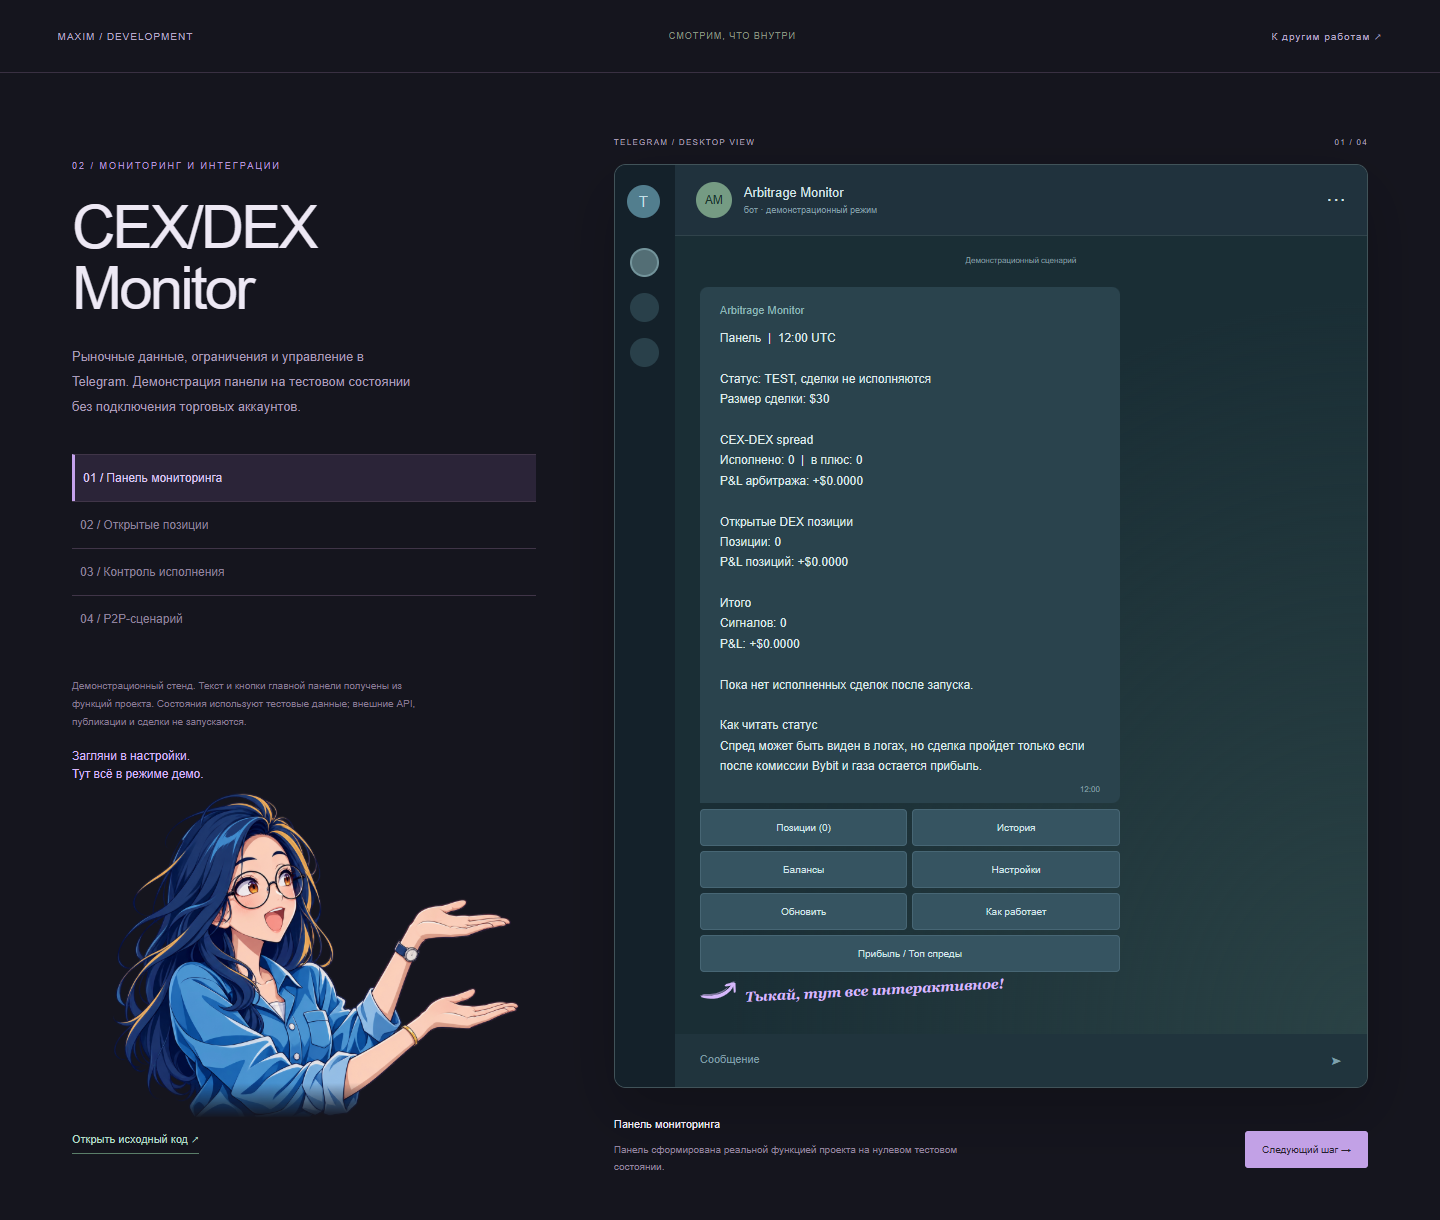
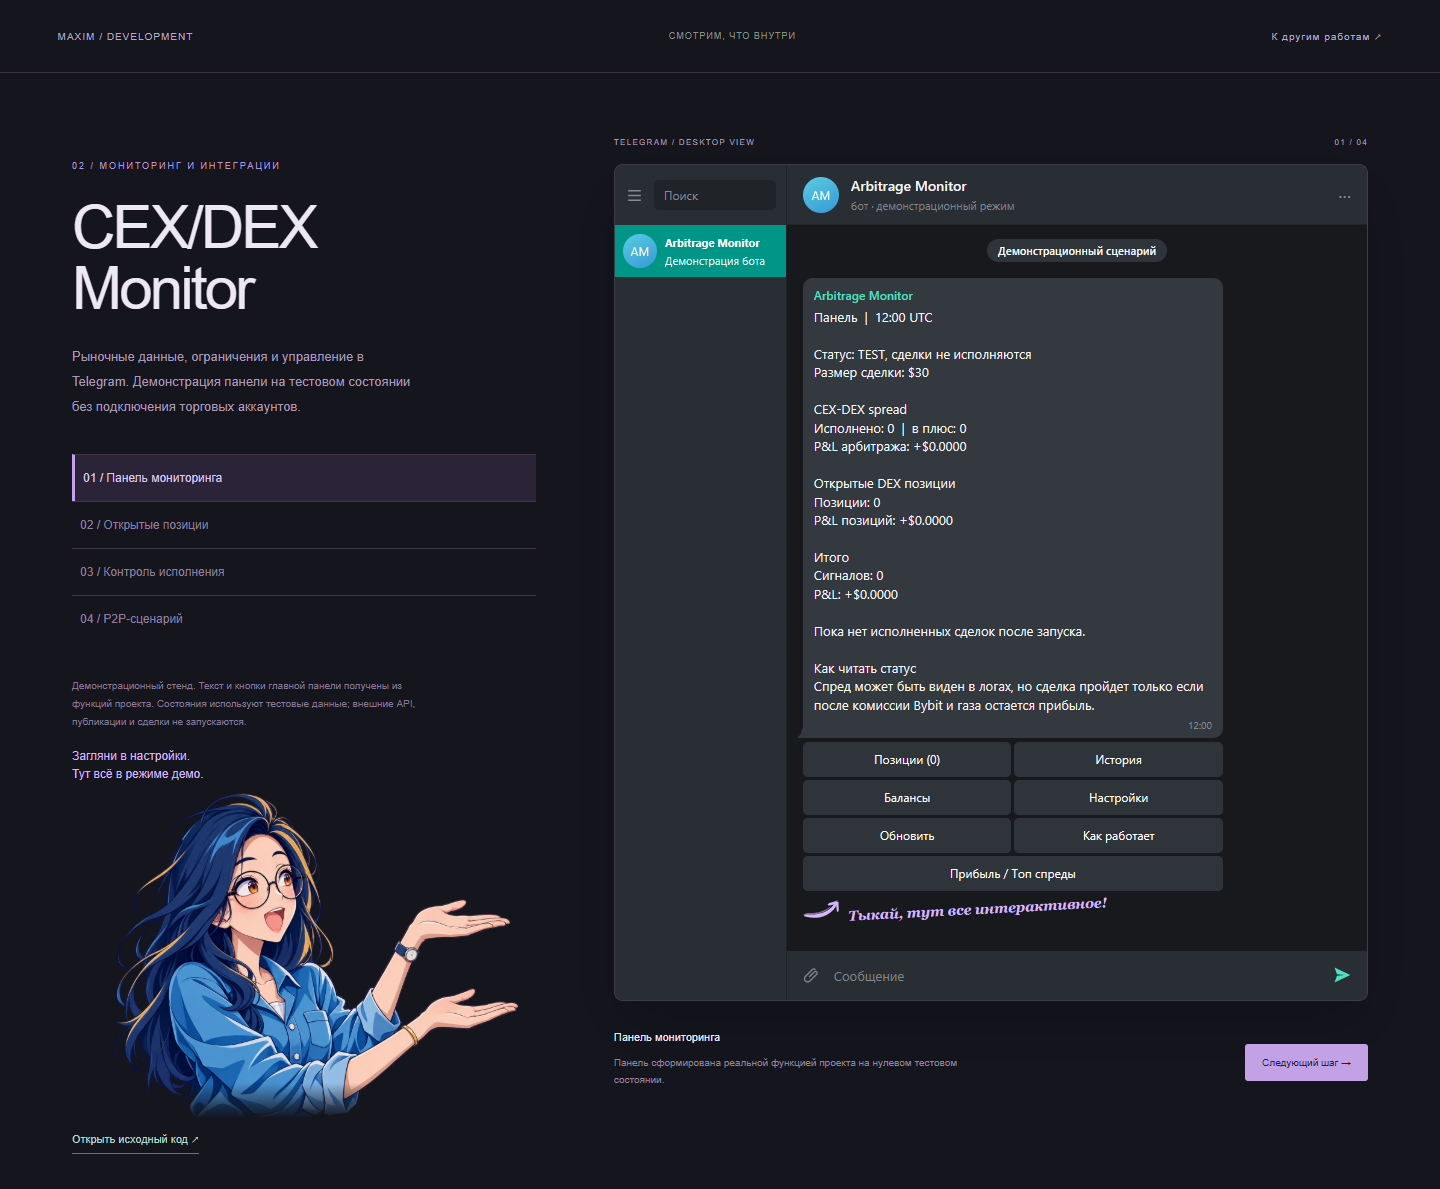
Match the Telegram Desktop Night palette

diff --git a/demo.js b/demo.js
@@ -1,7 +1,10 @@
 const kind=new URLSearchParams(location.search).get('project')==='arbitrage'?'arbitrage':'crypto';
 document.body.dataset.demo = kind;
 const projects={crypto:{number:'01 / АВТОМАТИЗАЦИЯ КОНТЕНТА',title:'CryptoNews\nPublisher',description:'От нескольких источников — к одной очереди публикаций. Редактор управляет всем процессом через Telegram.',avatar:'CN',chat:'CryptoNews Publisher',repo:'cryptonews-publisher',steps:[{name:'Панель редактора',description:'Канал, расписание и основные действия в одном сообщении.',snapshot:true},{name:'Подготовка поста',description:'Черновик из учебной ленты релизов. Можно запросить вторую редакцию, отклонить или подтвердить публикацию в демо.',text:'Предпросмотр публикации\n\nКак устроен путь новости до канала\n\nСистема собирает материалы из RSS и Telegram, подготавливает текст и передаёт его редактору. Перед публикацией можно проверить содержание, отклонить материал или запросить новую версию.\n\nЭто пример для демонстрации интерфейса, а не реальная новость.\n\n#Telegram #Автоматизация',buttons:[['Опубликовать','Отклонить'],['Перегенерировать','Без фото'],['Главная']]},{name:'Расписание',description:'Выбор часов публикации по московскому времени.',text:'Расписание\n\nВыберите часы публикации.\nЧасовой пояс: Москва (UTC+3).\n\nВ этом стенде настройки не сохраняются на сервере.',buttons:[['06:00','07:00','08:00','09:00'],['12:00','13:00','16:00','19:00'],['21:00','22:00','23:00'],['Назад']]},{name:'Очередь публикаций',description:'Редактор возвращается к неопубликованным материалам.',text:'Неопубликованные\n\nДемонстрационный материал ожидает проверки.\n\nРедактор может открыть предпросмотр, обновить текст или отклонить публикацию.',buttons:[['Открыть предпросмотр'],['Главная']]}]},arbitrage:{number:'02 / МОНИТОРИНГ И ИНТЕГРАЦИИ',title:'CEX/DEX\nMonitor',description:'Рыночные данные, ограничения и управление в Telegram. Демонстрация панели на тестовом состоянии без подключения торговых аккаунтов.',avatar:'AM',chat:'Arbitrage Monitor',repo:'cex-dex-arbitrage-monitor',steps:[{name:'Панель мониторинга',description:'Панель сформирована реальной функцией проекта на нулевом тестовом состоянии.',snapshot:true},{name:'Открытые позиции',description:'Пустое состояние: показываем отсутствие данных без выдуманной прибыли.',text:'Открытые DEX позиции\n\nОткрытых позиций нет.\n\nРежим демонстрации: торговые аккаунты и кошельки не подключены.',buttons:[['Обновить'],['Назад']]},{name:'Контроль исполнения',description:'Пример параметров из конфигурации проекта.',text:'Настройки стратегии\n\nРеальная торговля: выключена\nРазмер сделки: 30 USDT\nTake profit: 1.2%\nStop loss: 0.7%\nДопуск проскальзывания: 0.5%\nДневной лимит убытка: 10 USDT\nЛимит сделок: 50\n\nТестовые значения из конфигурации. Изменения на этом стенде не применяются.',buttons:[['Назад']]},{name:'P2P-сценарий',description:'Пояснение потока данных из сервисов проекта.',text:'P2P Triangle\n\nПроверка направлений между площадками с учётом:\n\nПлатёжного метода\nЛимитов объявления\nДоступной ликвидности\nКомиссий и запаса по издержкам\n\nДемонстрационный сценарий. Рыночные котировки не загружаются.',buttons:[['Главная']]}]}};
-const p=projects[kind];document.title=p.chat+' — демонстрация';for(const [id,value] of Object.entries({number:p.number,title:p.title,description:p.description,avatar:p.avatar,'chat-title':p.chat,sender:p.chat})){document.getElementById(id).textContent=value}document.getElementById('title').style.whiteSpace='pre-line';document.getElementById('source').href='https://github.com/Max0209-web/'+p.repo;let step=0;let snapshot=null;
+const p=projects[kind];
+document.getElementById('sidebar-avatar').textContent = p.avatar;
+document.getElementById('sidebar-title').textContent = p.chat;
+document.title=p.chat+' — демонстрация';for(const [id,value] of Object.entries({number:p.number,title:p.title,description:p.description,avatar:p.avatar,'chat-title':p.chat,sender:p.chat})){document.getElementById(id).textContent=value}document.getElementById('title').style.whiteSpace='pre-line';document.getElementById('source').href='https://github.com/Max0209-web/'+p.repo;let step=0;let snapshot=null;
 function render(){syncCryptoSteps();document.getElementById('chapters').replaceChildren(...p.steps.map((s,i)=>{const b=document.createElement('button');b.className='chapter'+(i===step?' active':'');b.textContent=String(i+1).padStart(2,'0')+' / '+s.name;b.onclick=()=>{step=i;render()};return b}));const s=p.steps[step];document.getElementById('counter').textContent=String(step+1).padStart(2,'0')+' / 04';document.getElementById('step-label').textContent=s.name;document.getElementById('step-description').textContent=s.description;document.getElementById('feedback').textContent='';document.getElementById('message').textContent=s.snapshot?(snapshot?.text||'Загрузка демонстрационного состояния…'):s.text;const rows=s.snapshot?(snapshot?.buttons||[]):s.buttons;document.getElementById('keyboard').replaceChildren(...rows.map(row=>{const d=document.createElement('div');d.className='key-row';row.forEach(label=>{const b=document.createElement('button');b.textContent=label;b.onclick=()=>action(label,b);d.append(b)});return d}));document.getElementById('next').textContent=step===3?'К началу →':'Следующий шаг →'}
 // State for the public walkthrough, independent from Telegram and Gemini.
 let draftState = 'empty';

diff --git a/demo.html b/demo.html
@@ -1,8 +1,21 @@
-<!doctype html><html lang="ru"><head><meta charset="utf-8"><meta name="viewport" content="width=device-width,initial-scale=1"><title>Демонстрация Telegram-продукта</title><link rel="stylesheet" href="demo.css"><link rel="stylesheet" href="demo-personality.css?v=2"></head><body><header><a href="index.html">MAXIM / DEVELOPMENT</a><span>СМОТРИМ, ЧТО ВНУТРИ</span><a href="index.html#work">К другим работам ↗</a></header><main><section class="story"><div class="eyebrow" id="number"></div><h1 id="title"></h1><p id="description"></p><div class="chapters" id="chapters"></div><div class="note">Демонстрационный стенд. Текст и кнопки главной панели получены из функций проекта. Состояния используют тестовые данные; внешние API, публикации и сделки не запускаются.</div><div class="demo-guide"><span id="guide-copy">Попробуй меню справа.</span><img src="assets/demo-presenter.png" alt="" width="1448" height="1086"></div><a id="source" class="source">Открыть исходный код ↗</a></section><section class="stage"><div class="stage-caption"><span>TELEGRAM / DESKTOP VIEW</span><span id="counter"></span></div><div class="telegram"><div class="tg-sidebar"><div class="tg-logo">T</div><div class="side-dot selected"></div><div class="side-dot"></div><div class="side-dot"></div></div><div class="tg-chat"><div class="tg-header"><div id="avatar" class="avatar"></div><div><div id="chat-title"></div><small>бот · демонстрационный режим</small></div><span class="more">···</span></div><div class="chat-area"><span class="date">Демонстрационный сценарий</span><div class="bubble"><div class="sender" id="sender"></div><div id="message" class="message"></div><div class="time">12:00</div></div><div class="keyboard" id="keyboard"></div>
+<!doctype html><html lang="ru"><head><meta charset="utf-8"><meta name="viewport" content="width=device-width,initial-scale=1"><title>Демонстрация Telegram-продукта</title><link rel="stylesheet" href="demo.css"><link rel="stylesheet" href="demo-personality.css?v=2"><link rel="stylesheet" href="demo-telegram-night.css"></head><body><header><a href="index.html">MAXIM / DEVELOPMENT</a><span>СМОТРИМ, ЧТО ВНУТРИ</span><a href="index.html#work">К другим работам ↗</a></header><main><section class="story"><div class="eyebrow" id="number"></div><h1 id="title"></h1><p id="description"></p><div class="chapters" id="chapters"></div><div class="note">Демонстрационный стенд. Текст и кнопки главной панели получены из функций проекта. Состояния используют тестовые данные; внешние API, публикации и сделки не запускаются.</div><div class="demo-guide"><span id="guide-copy">Попробуй меню справа.</span><img src="assets/demo-presenter.png" alt="" width="1448" height="1086"></div><a id="source" class="source">Открыть исходный код ↗</a></section><section class="stage"><div class="stage-caption"><span>TELEGRAM / DESKTOP VIEW</span><span id="counter"></span></div><div class="telegram"><aside class="tg-sidebar" aria-hidden="true">
+  <div class="tg-search-row">
+    <svg viewBox="0 0 24 24" width="19" height="19" fill="none" stroke="currentColor" stroke-width="2"><path d="M4 6h16M4 12h16M4 18h16"/></svg>
+    <span class="tg-search">Поиск</span>
+  </div>
+  <div class="tg-conversation">
+    <span class="avatar" id="sidebar-avatar"></span>
+    <div class="tg-conversation-copy"><strong id="sidebar-title"></strong><small>Демонстрация бота</small></div>
+  </div>
+</aside><div class="tg-chat"><div class="tg-header"><div id="avatar" class="avatar"></div><div><div id="chat-title"></div><small>бот · демонстрационный режим</small></div><span class="more">···</span></div><div class="chat-area"><span class="date">Демонстрационный сценарий</span><div class="bubble"><div class="sender" id="sender"></div><div id="message" class="message"></div><div class="time">12:00</div></div><div class="keyboard" id="keyboard"></div>
 <div class="interaction-hint">
   <span>Тыкай, тут все интерактивное!</span>
   <svg width="38" height="19" viewBox="0 0 88 44" aria-hidden="true" focusable="false">
     <path fill="currentColor" d="M3 7C19 0 46 1 62 14c7 5 12 11 15 16l1-12 3-2 2 4-1 18-3 3-18-4-4-4 3-2 11 2C58 15 33 8 8 11L2 10z"/>
     <path fill="currentColor" opacity=".55" d="M5 12c23-5 44 1 56 13l3 4C48 16 27 12 9 14zm65 26 10 4-3 1-10-4z"/>
   </svg>
-</div><div id="feedback" aria-live="polite"></div></div><div class="composer">Сообщение <span>➤</span></div></div></div><div class="stage-bottom"><div><span id="step-label"></span><p id="step-description"></p></div><button id="next">Следующий шаг →</button></div></section></main><script src="demo.js?v=2"></script></body></html>
+</div><div id="feedback" aria-live="polite"></div></div><div class="composer" aria-hidden="true">
+  <svg viewBox="0 0 24 24" width="19" height="19" fill="none" stroke="currentColor" stroke-width="1.7"><path d="m9 14 6.5-6.5a2.1 2.1 0 0 1 3 3L10 19a4 4 0 0 1-5.7-5.7l8.6-8.6a3 3 0 0 1 4.2 0"/></svg>
+  <span class="tg-placeholder">Сообщение</span>
+  <svg viewBox="0 0 24 24" width="20" height="20" fill="currentColor"><path d="m3 3 19 9-19 9 3-8 9-1-9-1z"/></svg>
+</div></div></div><div class="stage-bottom"><div><span id="step-label"></span><p id="step-description"></p></div><button id="next">Следующий шаг →</button></div></section></main><script src="demo.js?v=3"></script></body></html>

diff --git a/demo-telegram-night.css b/demo-telegram-night.css
@@ -1,0 +1,141 @@
+/* Palette and solid wallpaper color from Telegram Desktop's built-in Night theme.
+   https://github.com/telegramdesktop/tdesktop/blob/dev/Telegram/Resources/night-green.tdesktop-theme */
+.telegram {
+  --tg-window: #282e33;
+  --tg-wallpaper: #18191d;
+  --tg-text: #f5f5f5;
+  --tg-muted: #82868a;
+  --tg-accent: #4be1c3;
+  --tg-message: #33393f;
+  --tg-time: #828d94;
+  --tg-active-chat: #009687;
+  --tg-service: #363c43c8;
+  background: var(--tg-window);
+  border: 1px solid #3a3f45;
+  border-radius: 9px;
+  color: var(--tg-text);
+  font-family: "Segoe UI", Arial, sans-serif;
+}
+.tg-sidebar {
+  width: 172px;
+  background: var(--tg-window);
+  border-right: 1px solid #1f2328;
+  padding: 0;
+  text-align: left;
+}
+.tg-search-row {
+  display: flex;
+  align-items: center;
+  gap: 10px;
+  height: 60px;
+  padding: 0 10px;
+  color: var(--tg-time);
+}
+.tg-search {
+  flex: 1;
+  padding: 7px 10px;
+  background: #202429;
+  border-radius: 5px;
+  font-size: 12px;
+}
+.tg-conversation {
+  display: flex;
+  align-items: center;
+  gap: 8px;
+  padding: 9px 8px;
+  background: var(--tg-active-chat);
+  color: #fff;
+}
+.tg-conversation .avatar {
+  width: 34px;
+  height: 34px;
+}
+.tg-conversation-copy { min-width: 0; }
+.tg-conversation-copy strong,
+.tg-conversation-copy small {
+  display: block;
+  overflow: hidden;
+  text-overflow: ellipsis;
+  white-space: nowrap;
+  font-size: 11px;
+}
+.tg-conversation-copy small { margin-top: 3px; color: #e2f9f3; }
+.tg-chat { display: flex; flex-direction: column; }
+.tg-header {
+  min-height: 60px;
+  padding: 10px 16px;
+  background: var(--tg-window);
+  color: var(--tg-text);
+  border-bottom: 1px solid #22262b;
+}
+#chat-title { font-size: 14px; font-weight: 600; }
+.tg-header small { margin-top: 3px; color: var(--tg-muted); font-size: 11px; }
+.avatar { flex: none; color: #fff; background: linear-gradient(150deg, #5bcbe3, #359ad4); }
+.more { color: var(--tg-time); }
+.chat-area {
+  flex: 1;
+  min-height: 441px;
+  padding: 14px 16px 18px;
+  background: var(--tg-wallpaper);
+}
+.date {
+  display: table;
+  margin: 0 auto 16px;
+  padding: 4px 11px;
+  border-radius: 20px;
+  background: var(--tg-service);
+  color: #fff;
+  font-size: 11px;
+  font-weight: 600;
+}
+.bubble {
+  position: relative;
+  width: fit-content;
+  max-width: min(420px, 100%);
+  padding: 9px 11px 6px;
+  border-radius: 10px 10px 10px 2px;
+  background: var(--tg-message);
+  color: var(--tg-text);
+}
+.bubble::before {
+  content: "";
+  position: absolute;
+  left: -6px;
+  bottom: 0;
+  width: 9px;
+  height: 10px;
+  background: var(--tg-message);
+  clip-path: polygon(62% 0, 100% 0, 100% 100%, 0 100%, 42% 65%);
+}
+.sender { color: var(--tg-accent); font-size: 12px; font-weight: 600; margin-bottom: 5px; }
+.message { font-size: 13px; line-height: 1.42; }
+.time { color: var(--tg-time); font-size: 10px; margin-top: 4px; }
+.keyboard { gap: 3px; margin-top: 4px; }
+.key-row { gap: 3px; }
+.key-row button {
+  min-height: 35px;
+  background: var(--tg-service);
+  border: 0;
+  border-radius: 5px;
+  color: #fff;
+  font: 12px "Segoe UI", Arial, sans-serif;
+  padding: 7px 5px;
+}
+.key-row button:hover { background: #464c53; }
+.composer {
+  min-height: 49px;
+  display: flex;
+  justify-content: flex-start;
+  align-items: center;
+  gap: 13px;
+  padding: 10px 15px;
+  background: var(--tg-window);
+  color: var(--tg-muted);
+  font-size: 13px;
+}
+.composer .tg-placeholder { flex: 1; color: var(--tg-muted); }
+.composer svg { flex: none; }
+.composer svg:last-child { color: var(--tg-accent); }
+@media (max-width: 1080px) {
+  .tg-sidebar { display: none; }
+}
